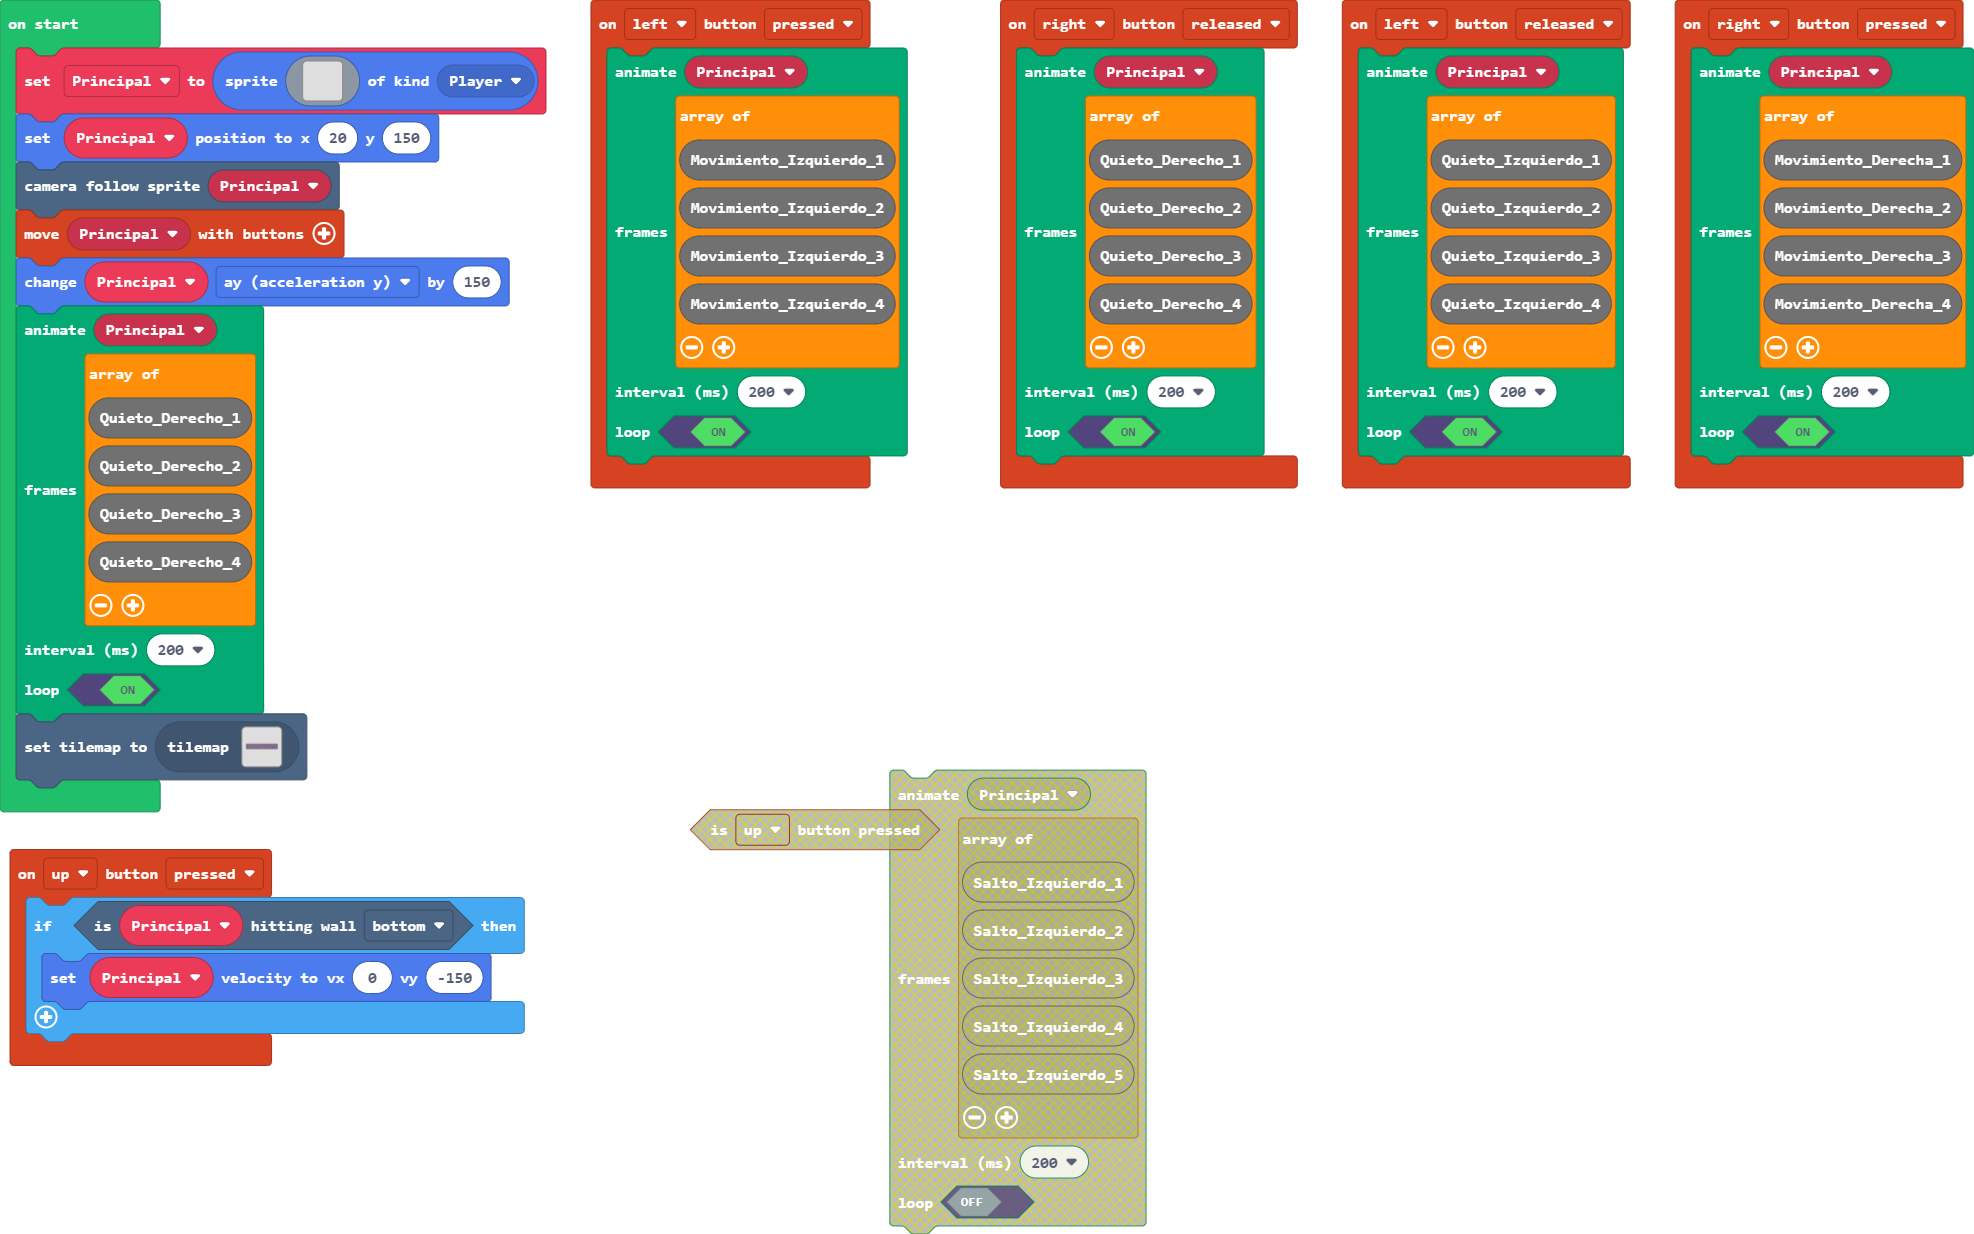
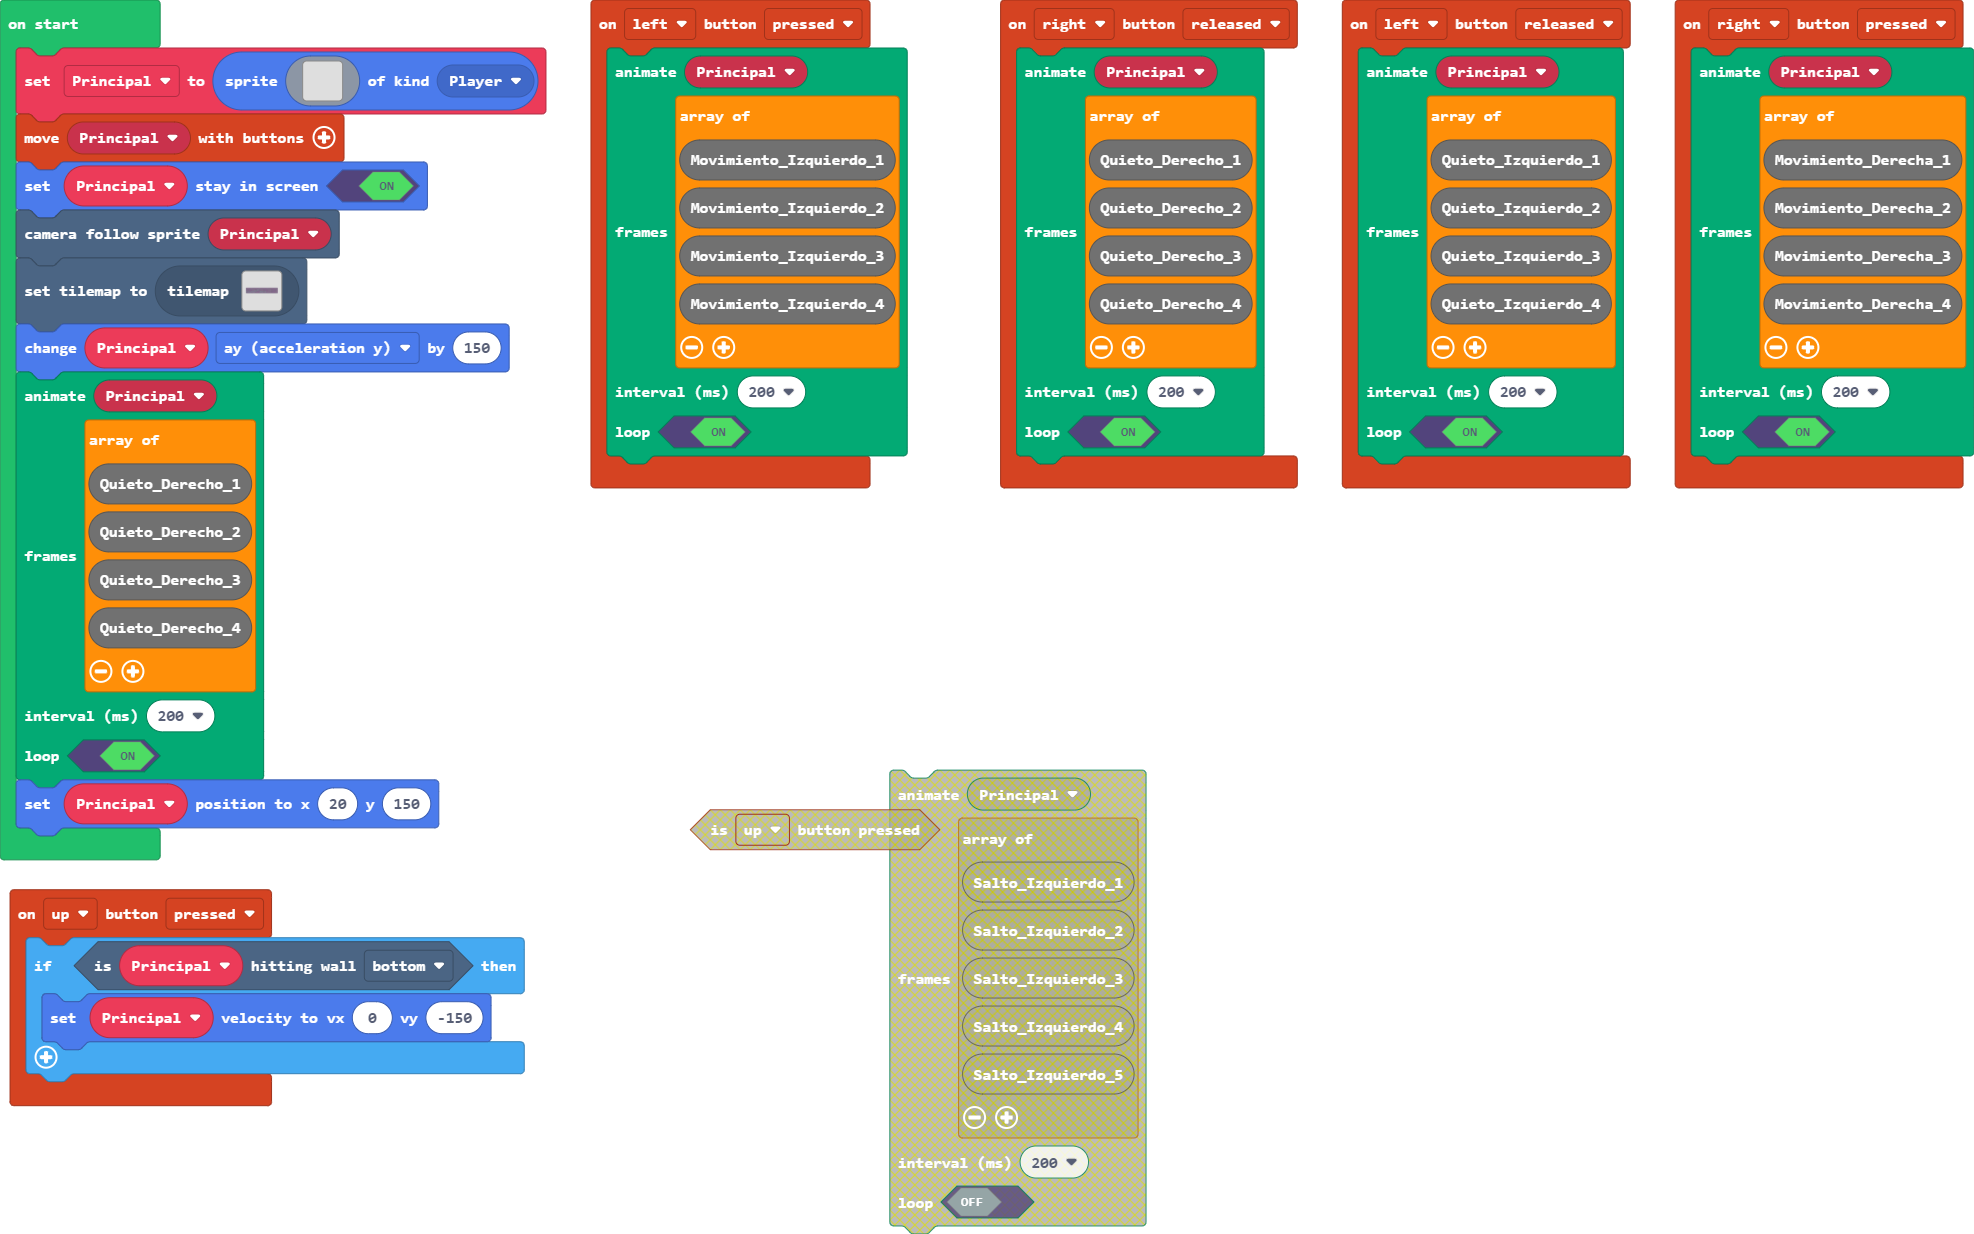
Update main.blocks, main.ts, tilemap.g.jres, tilemap.g.ts

Changed region(s): [[0.0, 0.0924, 0.2781, 0.9238]]

diff --git a/tilemap.g.ts b/tilemap.g.ts
@@ -62,6 +62,25 @@ namespace myTiles {
 . . . . . . . . . . . . . . . . 
 . . . . . . . . . . . . . . . . 
 `, [myTiles.transparency16], TileScale.Sixteen);
+            case "level4":
+            case "level4":return tiles.createTilemap(hex`1000100000000000000000000000000000000000000000000000000000000000000000000000000000000000000000000000000000000000000000000000000000000000000000000000000000000000000000000000000000000000000000000000000000000000000000000000000000000000000000000000000000000000000000000000000000000000000000000000000000000000000000000000000000000000000000000000000000000000000000000000000000000000000000000000000000000000000000000000000000000000000000000000000000000000000000000000000000000000000000000000000000000000000000000000000000000000`, img`
+. . . . . . . . . . . . . . . . 
+. . . . . . . . . . . . . . . . 
+. . . . . . . . . . . . . . . . 
+. . . . . . . . . . . . . . . . 
+. . . . . . . . . . . . . . . . 
+. . . . . . . . . . . . . . . . 
+. . . . . . . . . . . . . . . . 
+. . . . . . . . . . . . . . . . 
+. . . . . . . . . . . . . . . . 
+. . . . . . . . . . . . . . . . 
+. . . . . . . . . . . . . . . . 
+. . . . . . . . . . . . . . . . 
+. . . . . . . . . . . . . . . . 
+. . . . . . . . . . . . . . . . 
+. . . . . . . . . . . . . . . . 
+. . . . . . . . . . . . . . . . 
+`, [myTiles.transparency16], TileScale.Sixteen);
         }
         return null;
     })

diff --git a/main.ts b/main.ts
@@ -74,9 +74,10 @@ Principal = sprites.create(img`
     . . . . . . . . . . . . . . . . 
     . . . . . . . . . . . . . . . . 
     `, SpriteKind.Player)
-Principal.setPosition(20, 150)
-scene.cameraFollowSprite(Principal)
 controller.moveSprite(Principal)
+Principal.setStayInScreen(true)
+scene.cameraFollowSprite(Principal)
+tiles.setCurrentTilemap(tilemap`Nivel 1`)
 Principal.ay += 150
 animation.runImageAnimation(
 Principal,
@@ -89,4 +90,4 @@ Quieto_Derecho_4
 200,
 true
 )
-tiles.setCurrentTilemap(tilemap`Nivel 1`)
+Principal.setPosition(20, 150)
